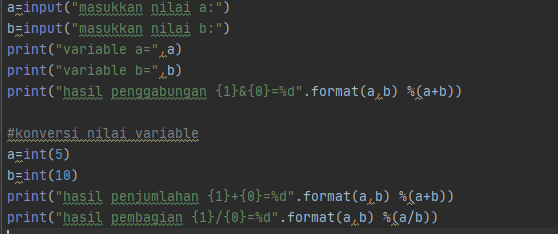
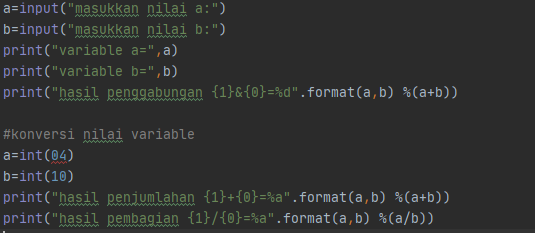
Upload lagi

diff --git a/Lab2/Lab2.py b/Lab2/Lab2.py
@@ -5,7 +5,7 @@ print("variable b=",b)
 print("hasil penggabungan {1}&{0}=%d".format(a,b) %(a+b))
 
 #konversi nilai variable
-a=int(a)
-b=int(b)
+a=int(04)
+b=int(10)
 print("hasil penjumlahan {1}+{0}=%a".format(a,b) %(a+b))
 print("hasil pembagian {1}/{0}=%a".format(a,b) %(a/b))
